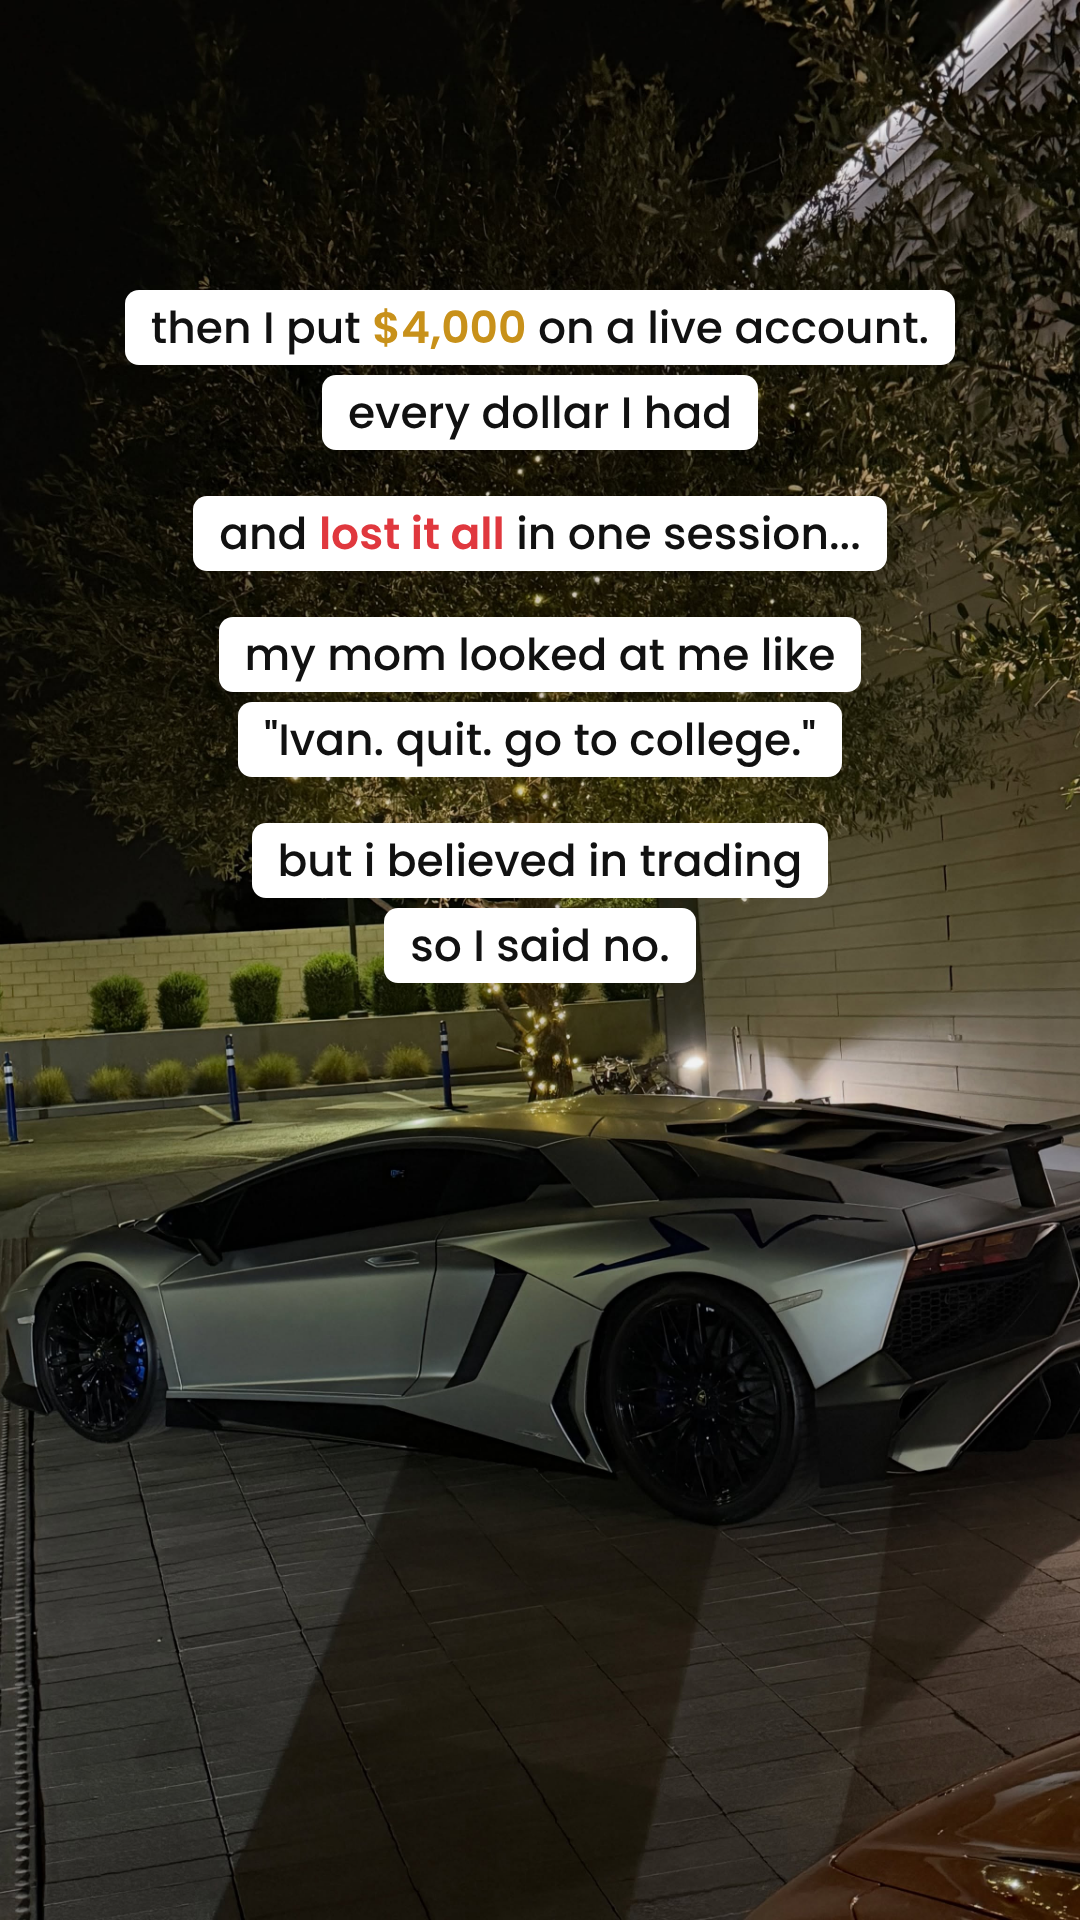
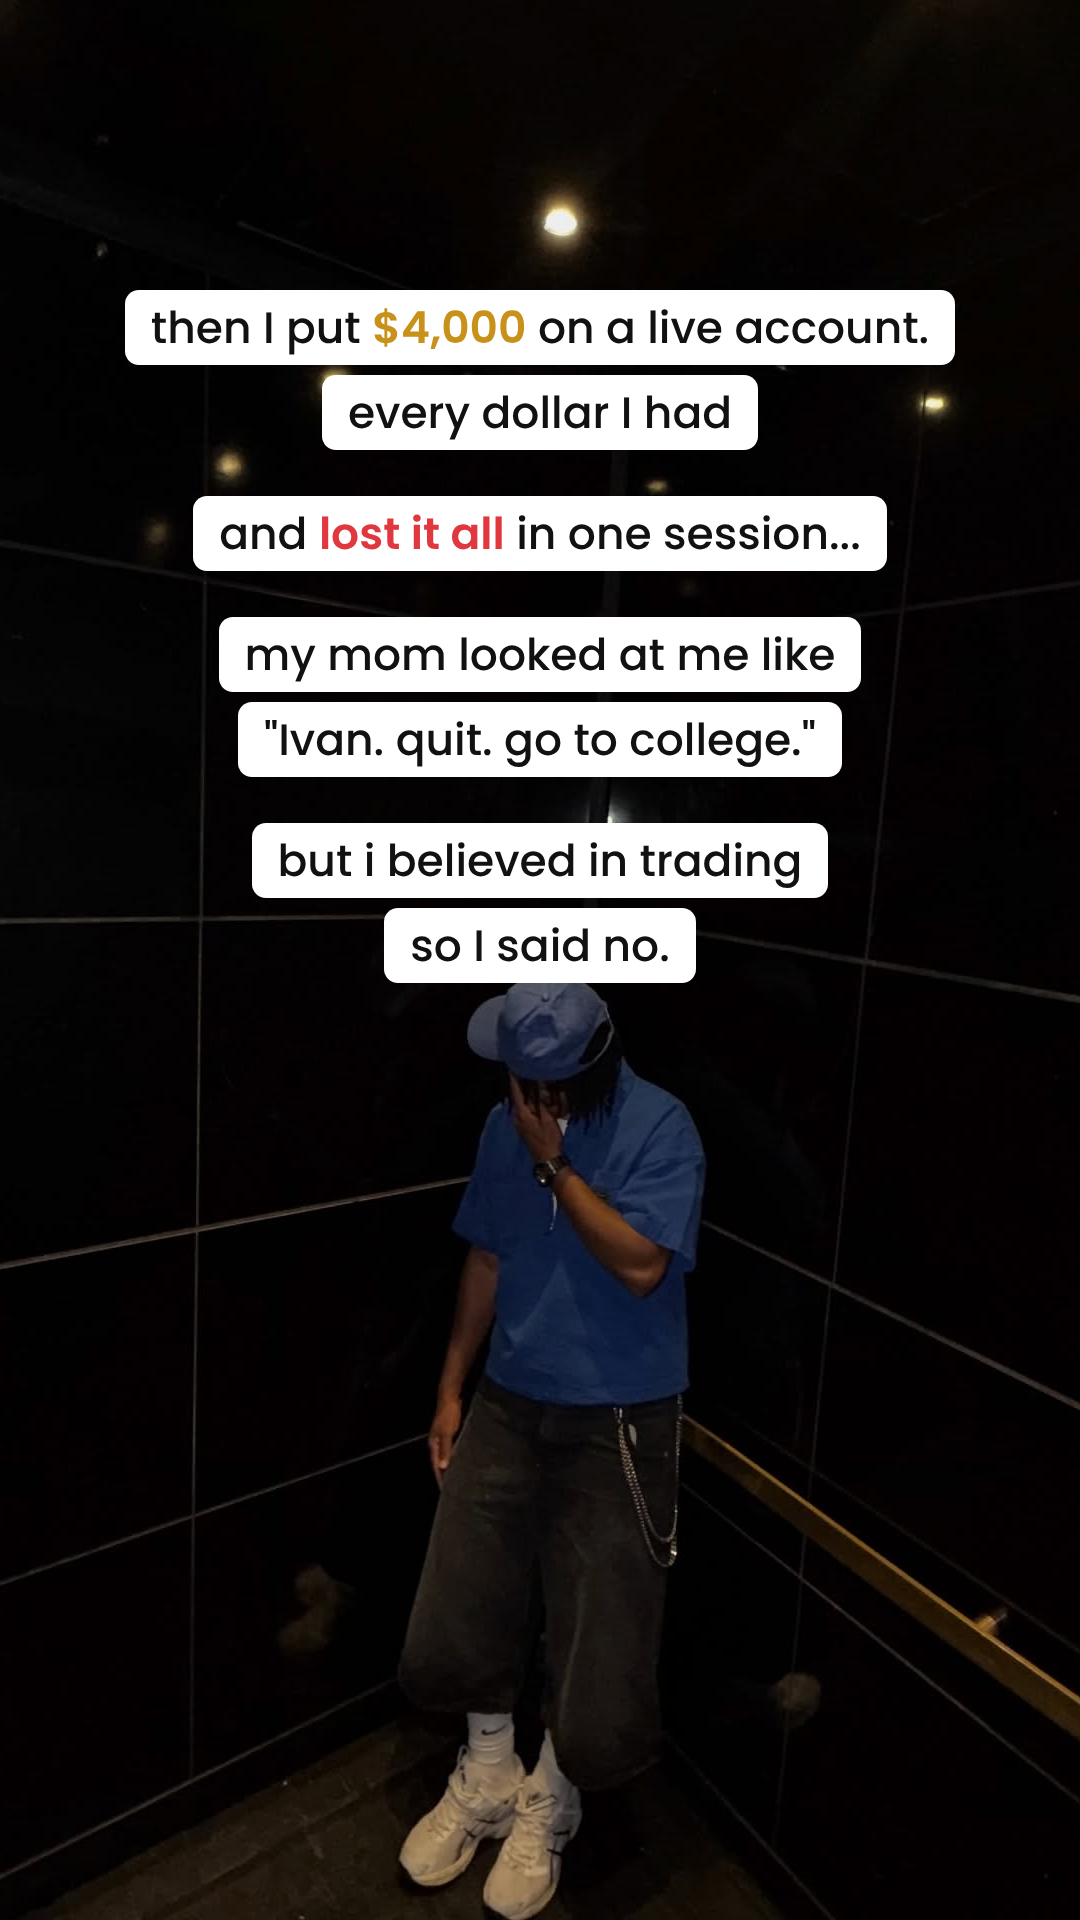
5 Mistakes: successful-Jean photos on stories 2-3, supercars only on 4
Claude-Session: https://claude.ai/code/session_015aTEPXVumuzpUDhw5jFPqj

diff --git a/sequences/2026-11-23_soft_5-mistakes-video/frames/03.html b/sequences/2026-11-23_soft_5-mistakes-video/frames/03.html
@@ -1,1 +1,1 @@
-<!doctype html><html><head><meta charset='utf-8'><link href='https://fonts.googleapis.com/css2?family=Poppins:wght@500;600;700&display=swap' rel='stylesheet'><link href='style.css' rel='stylesheet'></head><body><img class='bg' src='../../../03-backgrounds-larp/backgrounds/jean_ivan_11_1783644862_3937820353036234578_45494833154.jpg' style='object-position:50% 50%'><div class='shade' style=''></div><div class='stack' style='top:280px'><span class='l' style='font-size:44px'>the crazy part?? I wasn't missing info</span><div class='gap'></div><span class='l' style='font-size:44px'>I'd watched every video,</span><span class='l' style='font-size:44px'>bought every course,</span><span class='l' style='font-size:44px'>knew all the concepts</span><div class='gap'></div><span class='l' style='font-size:44px'>I was just doing <span class="hl">5 things</span> <span class="pain">wrong</span></span><span class='l' style='font-size:44px'>every single day</span><div class='gap'></div><span class='l' style='font-size:44px'>and I bet you're doing</span><span class='l' style='font-size:44px'>at least 3 of them rn...</span></div></body></html>
+<!doctype html><html><head><meta charset='utf-8'><link href='https://fonts.googleapis.com/css2?family=Poppins:wght@500;600;700&display=swap' rel='stylesheet'><link href='style.css' rel='stylesheet'></head><body><img class='bg' src='../../../03-backgrounds-larp/backgrounds/jean_ivan_11_1779493271_3902994685639333655_45494833154.jpg' style='object-position:50% 50%'><div class='shade' style=''></div><div class='stack' style='top:270px'><span class='l' style='font-size:42px'>the crazy part?? I wasn't missing info</span><div class='gap'></div><span class='l' style='font-size:42px'>I'd watched every video,</span><span class='l' style='font-size:42px'>bought every course,</span><span class='l' style='font-size:42px'>knew all the concepts</span><div class='gap'></div><span class='l' style='font-size:42px'>I was just doing <span class="hl">5 things</span> <span class="pain">wrong</span></span><span class='l' style='font-size:42px'>every single day</span></div><div class='stack' style='bottom:330px'><span class='l' style='font-size:46px'>and I bet you're doing</span><span class='l' style='font-size:46px'>at least 3 of them rn...</span></div></body></html>

diff --git a/sequences/2026-11-23_soft_5-mistakes-video/frames/02.html b/sequences/2026-11-23_soft_5-mistakes-video/frames/02.html
@@ -1,1 +1,1 @@
-<!doctype html><html><head><meta charset='utf-8'><link href='https://fonts.googleapis.com/css2?family=Poppins:wght@500;600;700&display=swap' rel='stylesheet'><link href='style.css' rel='stylesheet'></head><body><img class='bg' src='../../../03-backgrounds-larp/backgrounds/jean_ivan_11_1787611846_3971097683631613674_45494833154.jpg' style='object-position:50% 60%'><div class='shade' style=''></div><div class='stack' style='top:290px'><span class='l' style='font-size:44px'>then I put <span class="hl">$4,000</span> on a live account.</span><span class='l' style='font-size:44px'>every dollar I had</span><div class='gap'></div><span class='l' style='font-size:44px'>and <span class="pain">lost it all</span> in one session...</span><div class='gap'></div><span class='l' style='font-size:44px'>my mom looked at me like</span><span class='l' style='font-size:44px'>"Ivan. quit. go to college."</span><div class='gap'></div><span class='l' style='font-size:44px'>but i believed in trading</span><span class='l' style='font-size:44px'>so I said no.</span></div></body></html>
+<!doctype html><html><head><meta charset='utf-8'><link href='https://fonts.googleapis.com/css2?family=Poppins:wght@500;600;700&display=swap' rel='stylesheet'><link href='style.css' rel='stylesheet'></head><body><img class='bg' src='../../../03-backgrounds-larp/backgrounds/jean_ivan_11_1783644862_3937820383109397696_45494833154.jpg' style='object-position:50% 50%'><div class='shade' style=''></div><div class='stack' style='top:290px'><span class='l' style='font-size:44px'>then I put <span class="hl">$4,000</span> on a live account.</span><span class='l' style='font-size:44px'>every dollar I had</span><div class='gap'></div><span class='l' style='font-size:44px'>and <span class="pain">lost it all</span> in one session...</span><div class='gap'></div><span class='l' style='font-size:44px'>my mom looked at me like</span><span class='l' style='font-size:44px'>"Ivan. quit. go to college."</span><div class='gap'></div><span class='l' style='font-size:44px'>but i believed in trading</span><span class='l' style='font-size:44px'>so I said no.</span></div></body></html>

diff --git a/sequences/2026-11-23_soft_5-mistakes-video/sequence.md b/sequences/2026-11-23_soft_5-mistakes-video/sequence.md
@@ -4,13 +4,13 @@
 - **Date:** 2026-11-23 · **Type:** Soft CTA · 4 stories
 - **Copy:** written by the user, used word for word (one typo fixed, "las" → "lost").
 - **Goal:** get viewers to watch Jean's free video "5 Mistakes Keeping You From Getting Paid By Prop Firms".
-- **Look:** white boxes + Poppins with red pain words and gold reward words (same system as the variant B the user liked). Full-screen photos: Popeyes (story 1), then car LARP shots for 2–4 (user asked for cars instead of the before-era photos).
+- **Look:** white boxes + Poppins with red pain words and gold reward words (same system as the variant B the user liked). Full-screen photos: Popeyes (story 1), then **successful Jean** on 2–3 and the supercars on 4 (user wants Jean in the shot, not just random cars).
 - **Placeholders:** `[VIDEO LINK]` for the link sticker on story 4.
 
 ## Stories
 | # | Role | Visual | Add in app |
 |---|---|---|---|
 | 01 | DoorDash era | Popeyes at night through a rainy windshield | — |
-| 02 | Low point ($4k lost, mom said quit) | grey Lamborghini at night | — |
-| 03 | The turn (5 things wrong) | yellow Ferrari + red Porsche at the valet, daylight | optional poll "how many are you doing?" "1–2" / "3+ 😭" under the text |
+| 02 | Low point ($4k lost, mom said quit) | Jean today in the black-glass elevator, hand over face | — |
+| 03 | The turn (5 things wrong) | Jean today in the lobby (blue shirt); punchline split to the bottom | optional poll "how many are you doing?" "1–2" / "3+ 😭" under the text |
 | 04 | CTA (video) | blue Urus + 2 Ferraris under palm trees; title box on the pavement under the cars | **link sticker** to the video below the title box |

diff --git a/brand.md b/brand.md
@@ -55,3 +55,4 @@ Example: 2026-11-12 · soft · "free-guide" sequence: 38 DMs. Poll on frame 1 wo
 - 2026-11-11 · About Me v4: **follow the highlight refs' layout exactly.** Text is a bold italic white paragraph on a plain dark background, and the photo is a whole uncropped card under it. Over full-bleed photos, use white boxes with black text. Never zoom or crop small or landscape stills to fill 9:16. Don't use TikTok outline captions.
 - 2026-11-11 · About Me v5: user wants **~80% of story frames full-screen** (photo or screenshot), and the rest as a card **over a LARP background**, not a plain dark background. Keep box captions to one line each and off faces. Re-extract video stills at full resolution for full-screen use.
 - 2026-11-23 · soft · 5 Mistakes video: user rejected old selfie/laptop/high-rise backgrounds for stories 2–4 and asked for **LARP car shots** instead. Kept the Popeyes DoorDash photo on story 1. Default to car/lifestyle LARP behind text-heavy story frames.
+- 2026-11-23 · 5 Mistakes: don't fill a sequence with random car pics. Use **successful Jean in the shot** (elevator, lobby, pier, restaurant) for most LARP frames, with at most 1 car-only frame.
